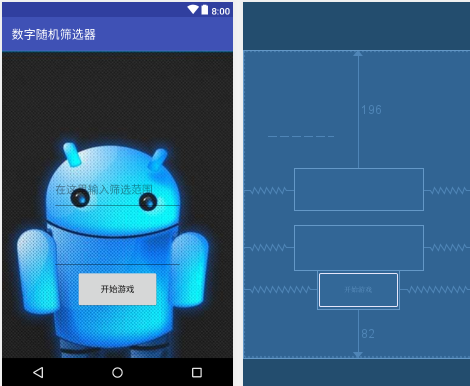
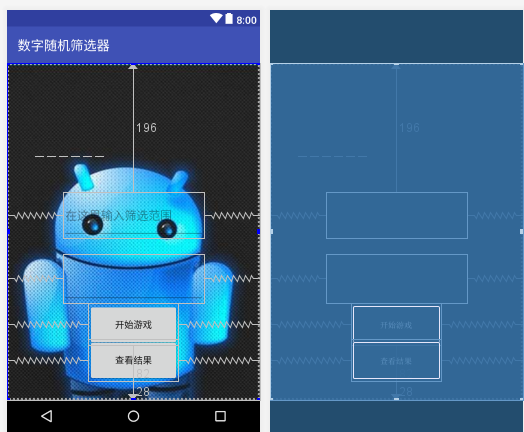
#5 #1016 实验五最新版

diff --git a/soft1614080902343/shiyan5/java/edu.hzuapps.androidlabs.soft161408090243/OpenActivity.java b/soft1614080902343/shiyan5/java/edu.hzuapps.androidlabs.soft161408090243/OpenActivity.java
@@ -14,12 +14,14 @@ import android.widget.Spinner;
 import android.widget.Toast;
 
 import java.io.BufferedWriter;
+import java.io.FileInputStream;
 import java.io.FileNotFoundException;
 import java.io.FileOutputStream;
 import java.io.IOException;
+import java.io.InputStreamReader;
 import java.io.OutputStream;
 import java.io.OutputStreamWriter;
-
+import java.io.StringReader;
 
 
 public class OpenActivity extends AppCompatActivity {
@@ -37,31 +39,49 @@ public class OpenActivity extends AppCompatActivity {
         Intent intent = new Intent(thisActivity,  OpenActivity.class);
         thisActivity.startActivity(intent);
         et =findViewById(R.id.editText);
-         textview_01 = (TextView) findViewById(R.id.textview_01);
+        Object show = (TextView) findViewById(R.id.textview_01);
         findViewById(R.id.Startbutton).setOnClickListener(new OnClickListener());
+
         Button btnOpen = (Button) findViewById(R.id.button_open);
-        btnOpen.setOnClickListener(new OnClickListener() {
+        btnOpen.setOnClickListener( new OnClickListener() {
             @Override
             public void onClick(View view) {
                 try {
                     FileOutputStream fos =openFileOutput(filename, Context.MODE_PRIVATE);
-                    try (OutputStreamWriter osw = OutputStreamWriter(fos, "UTF-8")) {
-                        try {
+
+                     OutputStreamWriter osw = OutputStreamWriter(fos, "UTF-8") {
+                           try {
                             osw.write(et.getText().toString());
                             osw.flush();
                             fos.flush();
                             osw.close();
                             fos.close();
                             Toast.makeText(getApplicationContext(),"输入完成"，Toast.LENGTH_SHORT).show();
-                        } catch (IOException e) {
+                        } catch (FileNotFoundException e) {
                             e.printStackTrace();
-                        }
-                    }
-                } catch (FileNotFoundException e) {
-                    e.printStackTrace();
+                            findViewById(R.id.Readbutton).setOnClickListener(new OnClickListener());
+                               public void onClick(View view){
+                                   try{FileInputStreame  fis =openFileInput(filename);
+                                       InputStreamReader is = new InputStreamReader(fis,"UTF-8");
+                                       char input[] =new char[fis.available()];
+                                       is.read(input);
+                                      is.close();
+                                       fis.close();
+                                       String Readed =new String(input);
+                                       show.settext(Readed);
+
+
+                                     } catch (IOException e) {
+                             e.printStackTrace();
+                                   } catch (IOException e) {
+                                       e.printStackTrace();
+                                   }
                 }
 
-            }
-        });
-    }
+            } catch (IOException e) {
+                               e.printStackTrace();
+                           }
+                    };
+    }}
 }
+        }
